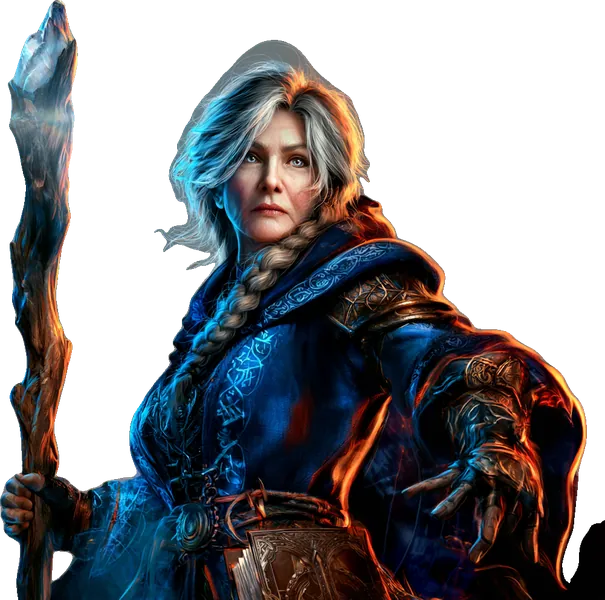
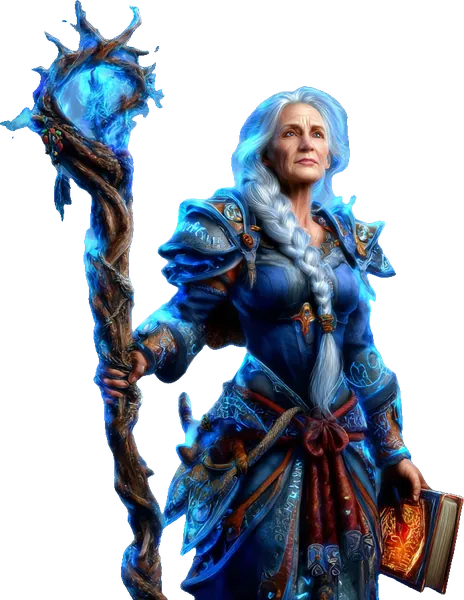
Front page: new full wizard, party bubbles below with race/class/subclass, hover on each character's middle, How it works video aligned to step I
Claude-Session: https://claude.ai/code/session_017s7ZTk27hVEaADseuckgTV

diff --git a/web/home.css b/web/home.css
@@ -351,13 +351,28 @@ html.grab-die, html.grab-die *{cursor:grab!important} html.grabbing-die, html.gr
 .party{display:flex;justify-content:center;align-items:flex-end;height:320px;margin:4px auto -10px;position:relative;overflow-x:clip}
 .pc{position:relative;margin:0 -30px;flex:none;outline:none;transition:transform .25s ease,filter .25s ease}
 .pc img{display:block;height:100%;width:auto;-webkit-mask-image:linear-gradient(#000 70%,transparent 100%);mask-image:linear-gradient(#000 70%,transparent 100%);user-select:none}
-.pc-barbarian{height:320px;z-index:3} .pc-pirate,.pc-bard{height:290px;z-index:2} .pc-wizard,.pc-ranger{height:260px;z-index:1}
-.pc figcaption{position:absolute;left:50%;top:-6px;transform:translate(-50%,-100%);background:var(--ink);color:var(--bg);border-radius:12px;padding:6px 12px;
-  font-family:var(--f-display);font-weight:700;font-size:1rem;white-space:nowrap;box-shadow:0 10px 30px rgba(0,0,0,.28);opacity:0;pointer-events:none;transition:opacity .14s,transform .14s}
-.pc figcaption::after{content:"";position:absolute;left:50%;bottom:-5px;width:12px;height:12px;background:var(--ink);transform:translateX(-50%) rotate(45deg);border-radius:2px}
+.pc-barbarian{height:320px;z-index:3} .pc-pirate,.pc-bard{height:290px;z-index:2} .pc-wizard,.pc-ranger{height:260px;z-index:1} .pc-ranger{height:275px}
+.pc figcaption{position:absolute;left:50%;bottom:6%;transform:translate(-50%,6px);background:var(--ink);color:var(--bg);border-radius:12px;padding:8px 13px 9px;
+  font-size:.92rem;line-height:1.35;white-space:nowrap;text-align:left;box-shadow:0 10px 30px rgba(0,0,0,.35);opacity:0;pointer-events:none;transition:opacity .14s,transform .14s;z-index:6}
+.pc figcaption::after{content:"";position:absolute;left:50%;top:-5px;width:12px;height:12px;background:var(--ink);transform:translateX(-50%) rotate(45deg);border-radius:2px}
+.pc figcaption .bk{display:block;font-size:.66rem;text-transform:uppercase;letter-spacing:.09em;font-weight:700;opacity:.65}
+.pc figcaption .bt{display:block;font-family:var(--f-display);font-weight:700;font-size:1.05rem;margin:1px 0 2px}
 .pc:hover,.pc:focus-visible{z-index:5;transform:translateY(-8px);filter:brightness(1.08) drop-shadow(0 0 14px color-mix(in srgb,var(--brass) 35%,transparent))}
-.pc:hover figcaption,.pc:focus-visible figcaption{opacity:1;transform:translate(-50%,calc(-100% - 4px))}
-.pc figcaption{top:18%}
+.pc:hover figcaption,.pc:focus-visible figcaption{opacity:1;transform:translate(-50%,0)}
+.pc-wizard{height:290px}
 @media (prefers-reduced-motion:reduce){ .pc,.pc figcaption{transition:none} .pc:hover,.pc:focus-visible{transform:none} }
-@media (max-width:860px){ .party{height:250px} .pc{margin:0 -24px} .pc-barbarian{height:250px} .pc-pirate,.pc-bard{height:225px} .pc-wizard,.pc-ranger{height:200px} }
+@media (max-width:1100px){ .party{height:250px} .pc{margin:0 -24px} .pc-barbarian{height:250px} .pc-pirate,.pc-bard{height:225px} .pc-wizard,.pc-ranger{height:200px} }
 @media (max-width:520px){ .party{height:190px;margin-top:14px} .pc{margin:0 -16px} .pc-wizard,.pc-ranger{display:none} .pc-barbarian{height:190px} .pc-pirate,.pc-bard{height:170px} }
+/* the outer characters' bubbles open inwards, so they never run off the screen */
+.pc-wizard figcaption{left:22%;transform:translate(0,6px)} .pc-wizard figcaption::after{left:28px}
+.pc-ranger figcaption{left:auto;right:24%;transform:translate(0,6px)} .pc-ranger figcaption::after{left:auto;right:22px;transform:rotate(45deg)}
+.pc-wizard:hover figcaption,.pc-wizard:focus-visible figcaption,.pc-ranger:hover figcaption,.pc-ranger:focus-visible figcaption{transform:none}
+@media (max-width:520px){
+  .pc-pirate figcaption{left:22%;transform:translate(0,6px)} .pc-pirate figcaption::after{left:28px}
+  .pc-bard figcaption{left:auto;right:12%;transform:translate(0,6px)} .pc-bard figcaption::after{left:auto;right:22px;transform:rotate(45deg)}
+  .pc-pirate:hover figcaption,.pc-pirate:focus-visible figcaption,.pc-bard:hover figcaption,.pc-bard:focus-visible figcaption{transform:none}
+}
+/* hover only counts on a character's middle, not on the see-through edges of the picture next to it */
+.pc{pointer-events:none} .pc::before{content:"";position:absolute;inset:6% 24% 0;pointer-events:auto;z-index:1}
+/* How it works: the video starts level with the top of step I */
+.howgrid{align-items:start}

diff --git a/src/landing.html b/src/landing.html
@@ -64,11 +64,11 @@
 
   <!-- the party: five example characters (Menno's Midjourney art, backgrounds cut out), standing shoulder to shoulder -->
   <div class="party">
-    <figure class="pc pc-wizard reveal" tabindex="0"><img src="/media/party/wizard.webp" alt="A human wizard with a glowing crystal staff" loading="lazy" decoding="async" draggable="false"><figcaption>Wizard</figcaption></figure>
-    <figure class="pc pc-pirate reveal" tabindex="0"><img src="/media/party/pirate.webp" alt="A tiefling pirate captain with a flintlock pistol" loading="lazy" decoding="async" draggable="false"><figcaption>Pirate</figcaption></figure>
-    <figure class="pc pc-barbarian reveal" tabindex="0"><img src="/media/party/barbarian.webp" alt="A half-orc barbarian with a greataxe on his back" loading="lazy" decoding="async" draggable="false"><figcaption>Barbarian</figcaption></figure>
-    <figure class="pc pc-bard reveal" tabindex="0"><img src="/media/party/bard.webp" alt="A dragonborn bard playing a lute" loading="lazy" decoding="async" draggable="false"><figcaption>Bard</figcaption></figure>
-    <figure class="pc pc-ranger reveal" tabindex="0"><img src="/media/party/ranger.webp" alt="A wood elf ranger drawing his bow" loading="lazy" decoding="async" draggable="false"><figcaption>Ranger</figcaption></figure>
+    <figure class="pc pc-wizard reveal" tabindex="0"><img src="/media/party/wizard.webp" alt="A human wizard with a glowing crystal staff" loading="lazy" decoding="async" draggable="false"><figcaption><span class="bk">Human</span><span class="bt">Wizard 7</span>School of Evocation</figcaption></figure>
+    <figure class="pc pc-pirate reveal" tabindex="0"><img src="/media/party/pirate.webp" alt="A tiefling pirate captain with a flintlock pistol" loading="lazy" decoding="async" draggable="false"><figcaption><span class="bk">Tiefling</span><span class="bt">Rogue 5 / Fighter 2</span>Swashbuckler · Battle Master</figcaption></figure>
+    <figure class="pc pc-barbarian reveal" tabindex="0"><img src="/media/party/barbarian.webp" alt="A half-orc barbarian with a greataxe on his back" loading="lazy" decoding="async" draggable="false"><figcaption><span class="bk">Half-Orc</span><span class="bt">Barbarian 6</span>Path of the Berserker</figcaption></figure>
+    <figure class="pc pc-bard reveal" tabindex="0"><img src="/media/party/bard.webp" alt="A dragonborn bard playing a lute" loading="lazy" decoding="async" draggable="false"><figcaption><span class="bk">Dragonborn</span><span class="bt">Bard 5</span>College of Lore</figcaption></figure>
+    <figure class="pc pc-ranger reveal" tabindex="0"><img src="/media/party/ranger.webp" alt="A wood elf ranger drawing his bow" loading="lazy" decoding="async" draggable="false"><figcaption><span class="bk">Wood Elf</span><span class="bt">Ranger 6</span>Gloom Stalker</figcaption></figure>
   </div>
 
   <div class="rule" aria-hidden="true"><span></span></div>
